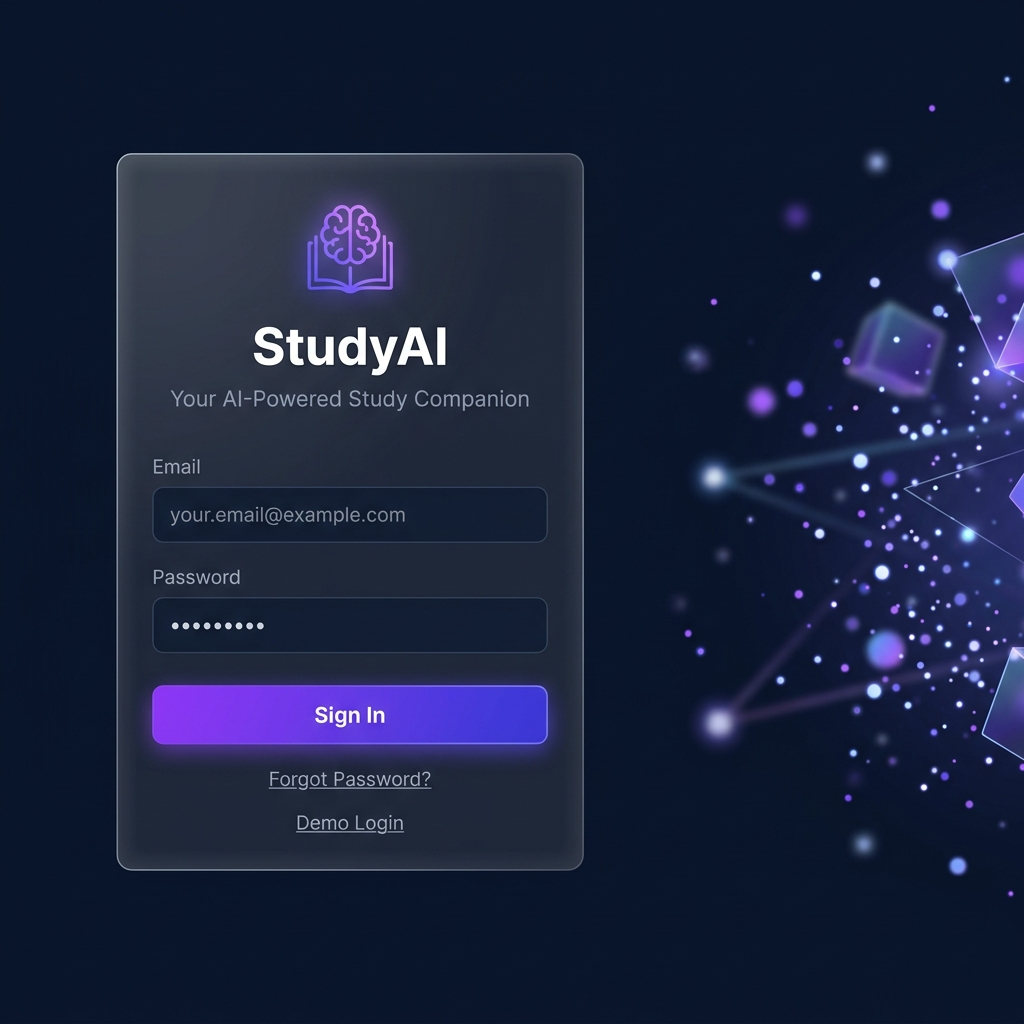
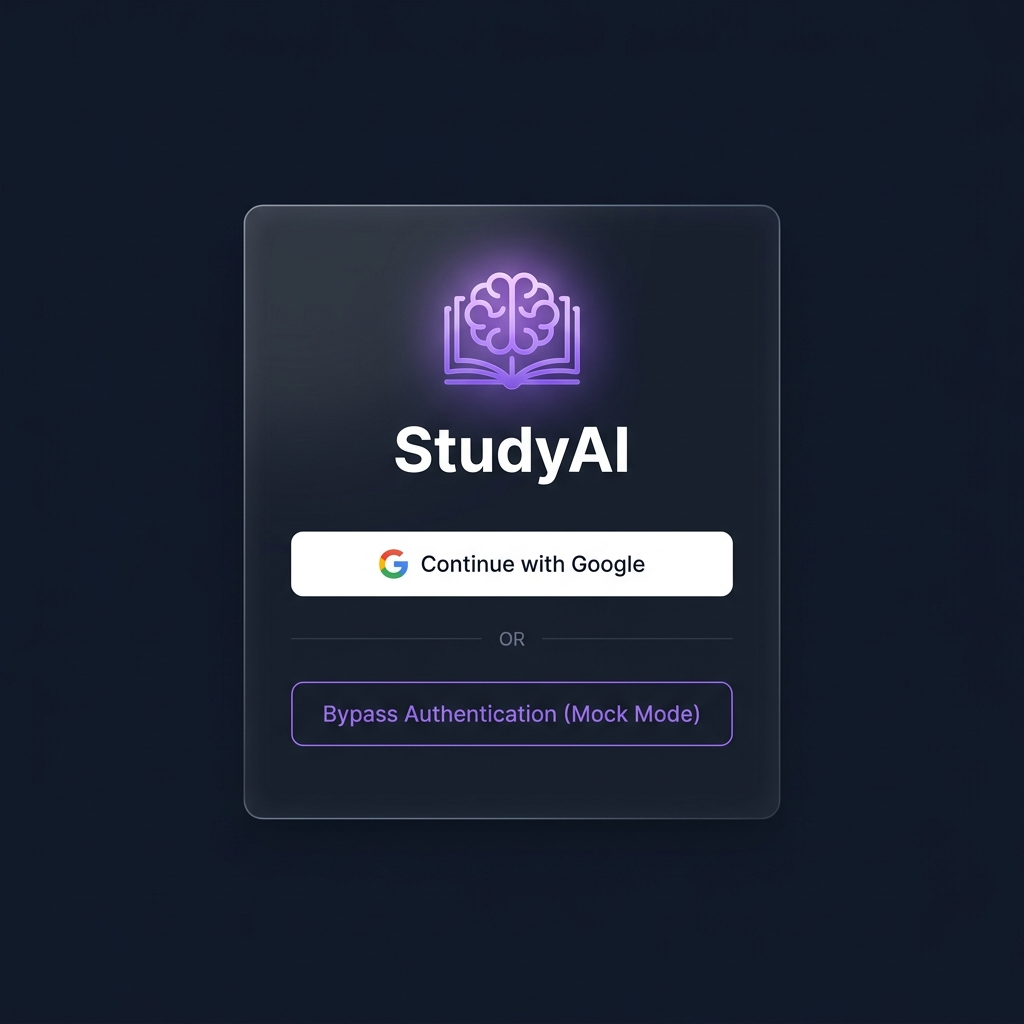
docs: update README and documentation for production release

diff --git a/CHANGELOG.md b/CHANGELOG.md
@@ -1,0 +1,44 @@
+# Changelog
+
+All notable changes to the **StudyAI** project are documented in this file.
+
+---
+
+## [2.0.0] - Production Release & Security Hardening (Current)
+
+### Added
+- **Firebase Google Authentication**: Integrated Google Sign-In as the primary authentication provider using `signInWithPopup(auth, googleProvider)`.
+- **Session Observer**: Added `onAuthStateChanged` to dynamically monitor token state, refresh tokens, and preserve user credentials across reloads.
+- **Server-Side Token Verification**: Secure cryptographical token verification on the backend using `auth.verify_id_token(token)` via the Firebase Admin SDK.
+- **Environment Service Account Keys**: Supported injecting the entire service account credentials JSON string via `FIREBASE_CREDENTIALS_JSON` on Render.
+- **Render Python Version Pinned**: Configured `.python-version` and `PYTHON_VERSION` in `render.yaml` to pin Python to `3.11.9`, resolving the new `pydantic-core` compiler error.
+- **Project Structure Cleanup**: Deleted obsolete App Engine folders (`hello-gae/`) and test Java files (`FactorialRange.java`, `nest.java`, etc.) to keep the codebase focused.
+
+---
+
+## [1.2.0] - DevOps & Git Setup
+
+### Added
+- **Render Blueprints**: Generated `render.yaml` in the root workspace to automate multi-service cloud builds.
+- **Root Gitignore**: Added custom exclusions for `.env`, cache folders, and private credentials.
+- **Local Dev Tunnel**: Implemented reverse SSH tunnel shell commands via `localhost.run` for external testing of local dev ports.
+- **Startup Configuration Verifier**: Implemented `verify_startup_config` inside `backend/config.py` to assert vital variables are present at boot.
+
+---
+
+## [1.1.0] - AI Services & Formatting Refinement
+
+### Added
+- **Marked Markdown Rendering**: Replaced manual regex matching with `marked.js` to render summaries and study guides cleanly.
+- **Context-Aware AI Tutor**: Linked `material_id` to conversational routes. The backend now retrieves the study document text dynamically and appends it to the LLM system prompt context.
+- **Groq JSON Array Extraction**: Refactored `generate_flashcards` and `generate_quiz` inside `groq_service.py` to extract raw arrays from nested JSON shapes.
+
+---
+
+## [1.0.0] - Initial Release
+
+### Added
+- **Flask REST API**: Minimal factory-pattern backend.
+- **React UI**: Basic mock-themed interface.
+- **Document Extractors**: Document ingestion logic using PyPDF and python-docx.
+- **Firebase client stub**: Basic in-memory fallback helper.